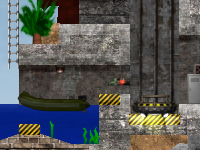
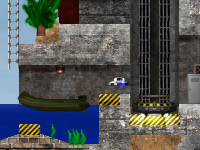
* SSA in Ground Zero werden nur dann anfangs eingeschaltet, wenn das Spielziel OP gewählt wurde. * Titelbilder aktualisiert.

diff --git a/ModernCombatFINALTRY.c4f/CMC_GroundZero.c4s/Script.c b/ModernCombatFINALTRY.c4f/CMC_GroundZero.c4s/Script.c
@@ -281,13 +281,11 @@ func CreateFurniture()
   //Selbstschussanlagen und Konsolen
   aSelfDefense[0] = CreateObject(SEGU, 415, 329, -1);
     aSelfDefense[0]->Arm(MISA);
-    aSelfDefense[0]->TurnOn();
     aSelfDefense[0]->SetAutoRepair(1500);
     CreateObject(CONS, 250, 385, -1)->Set(aSelfDefense[0]);
   
   aSelfDefense[1] = CreateObject(SEGU, 2385, 329, -1);
     aSelfDefense[1]->Arm(MISA);
-    aSelfDefense[1]->TurnOn();
     aSelfDefense[1]->SetAutoRepair(1500);
     CreateObject(CONS, 2550, 385, -1)->Set(aSelfDefense[1]);
 
@@ -452,6 +450,10 @@ public func ChooserFinished()
    {aSelfDefense[0]->SetTeam(1);}
    if(aTeams[2] == true)
    {aSelfDefense[1]->SetTeam(2);}
+
+   //SSA anschalten
+   aSelfDefense[0]->TurnOn();
+   aSelfDefense[1]->TurnOn();
 
    //Flaggen
    aFlag[0] = CreateObject(OFPL,100,390,NO_OWNER);
